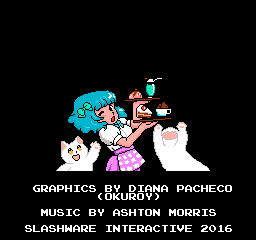
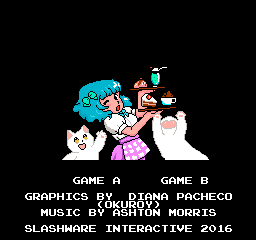
Let player pick Game A or Game B

Changed region(s): [[0.0938, 0.2625, 0.9062, 0.875]]

diff --git a/src/CatCafe.js b/src/CatCafe.js
@@ -126,6 +126,7 @@ function setTVFrame(){
 var DAY_DURATION = 112;
 
 var CatCafe = {
+	gameASelected: true,
 	init: function(){
 		this.game = new Phaser.Game(256, 240, Phaser.AUTO, '', { preload: PhaserStates.preload, create: PhaserStates.create, update: PhaserStates.update }, false, false);
 	},
@@ -184,12 +185,27 @@ var CatCafe = {
 		this.gameActive = true; 
 		this.game.time.events.add(DAY_DURATION*1000, this.endDay, this);
 	},
+	changeTitleOption: function(){
+		if (!this.titleScreenGroup.visible){
+			return;
+		}
+		this.gameASelected = !this.gameASelected;
+		if (this.gameASelected){
+			this.gameTypeSelectSprite.x = 50;
+		} else {
+			this.gameTypeSelectSprite.x = 138;
+		}
+	},
 	start: function(){
 		if (!this.game.device.desktop){
 			this.game.scale.setGameSize(256, 340);
 		} else {
 			this.game.time.events.add(100, setTVFrame);
 		}
+
+		this.game.input.keyboard.addKey(Phaser.Keyboard.LEFT).onDown.add(this.changeTitleOption, this);
+		this.game.input.keyboard.addKey(Phaser.Keyboard.RIGHT).onDown.add(this.changeTitleOption, this);
+
 		this.mainGroup = this.game.add.group();
 		this.cityGroup = this.game.add.group(this.mainGroup);
 		this.backgroundGroup = this.game.add.group(this.mainGroup);
@@ -255,6 +271,10 @@ var CatCafe = {
 		logoSprite.animations.add('blink', [0,1], 2, true);
 		logoSprite.animations.play('blink');
 		this.game.add.sprite(96, 48, 'title-tiles', 2, this.titleScreenGroup);
+		this.gameTypeSelectSprite = this.game.add.sprite(50, 158, 'tileset', 208, this.titleScreenGroup);
+		this.gameTypeSelectSprite.animations.add('idle', [208, 209, 210, 211, 212, 213], 6, true);
+		this.gameTypeSelectSprite.animations.play('idle');
+		
 
 		this.menuMusic = this.game.add.audio('menu',0.5, true);
 		this.gameMusic = this.game.add.audio('game',0.5, true);
@@ -445,9 +465,10 @@ var CatCafe = {
 		this.updateStageNumber();
 		this.hour = 7;
 		this.updateTime();
-		if (num > stageMap.a.length - 1)
-			num = stageMap.a.length - 1;
-		var specs = stageMap.a[num];
+		var baseStageMap = stageMap[this.gameASelected?'a':'b'];
+		if (num > baseStageMap.length - 1)
+			num = baseStageMap.length - 1;
+		var specs = baseStageMap[num];
 		for (var i = 0; i < specs.holyCats; i++){
 			this.game.time.events.add(i*5000, this.placeHolyCat, this);
 		}
